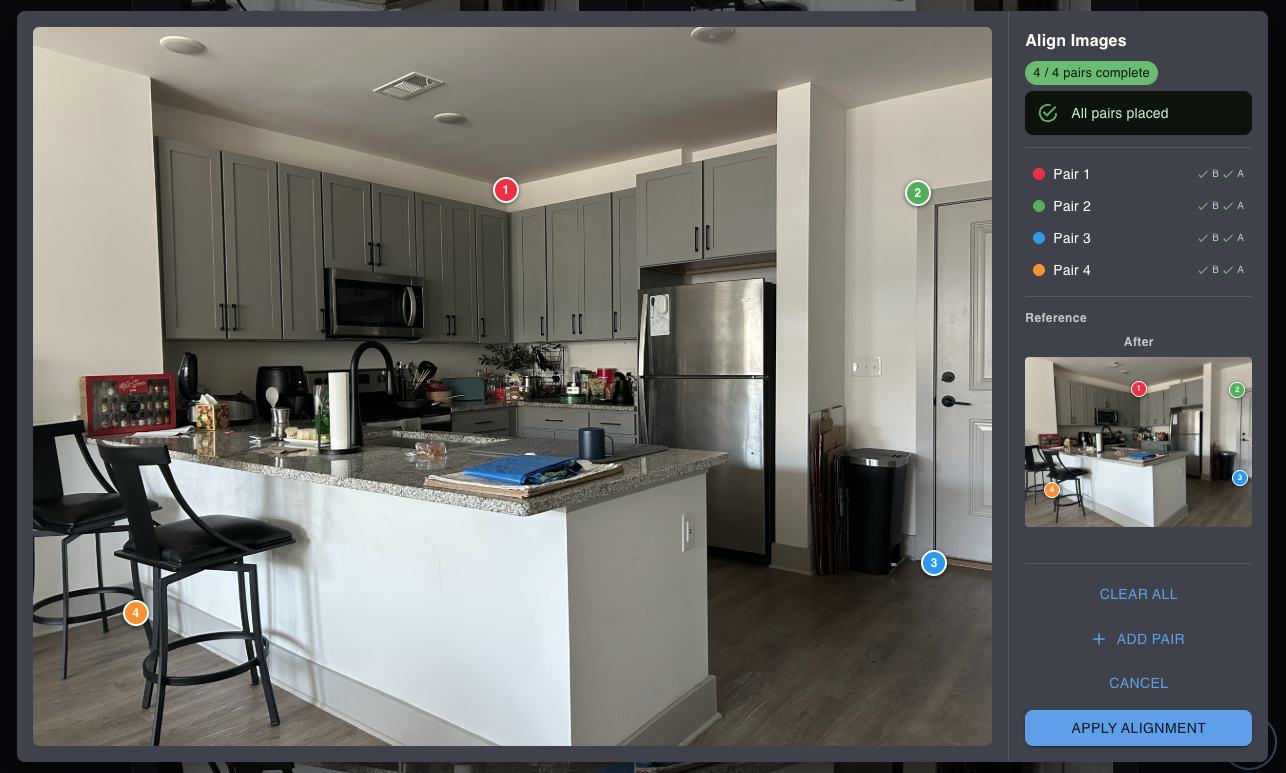
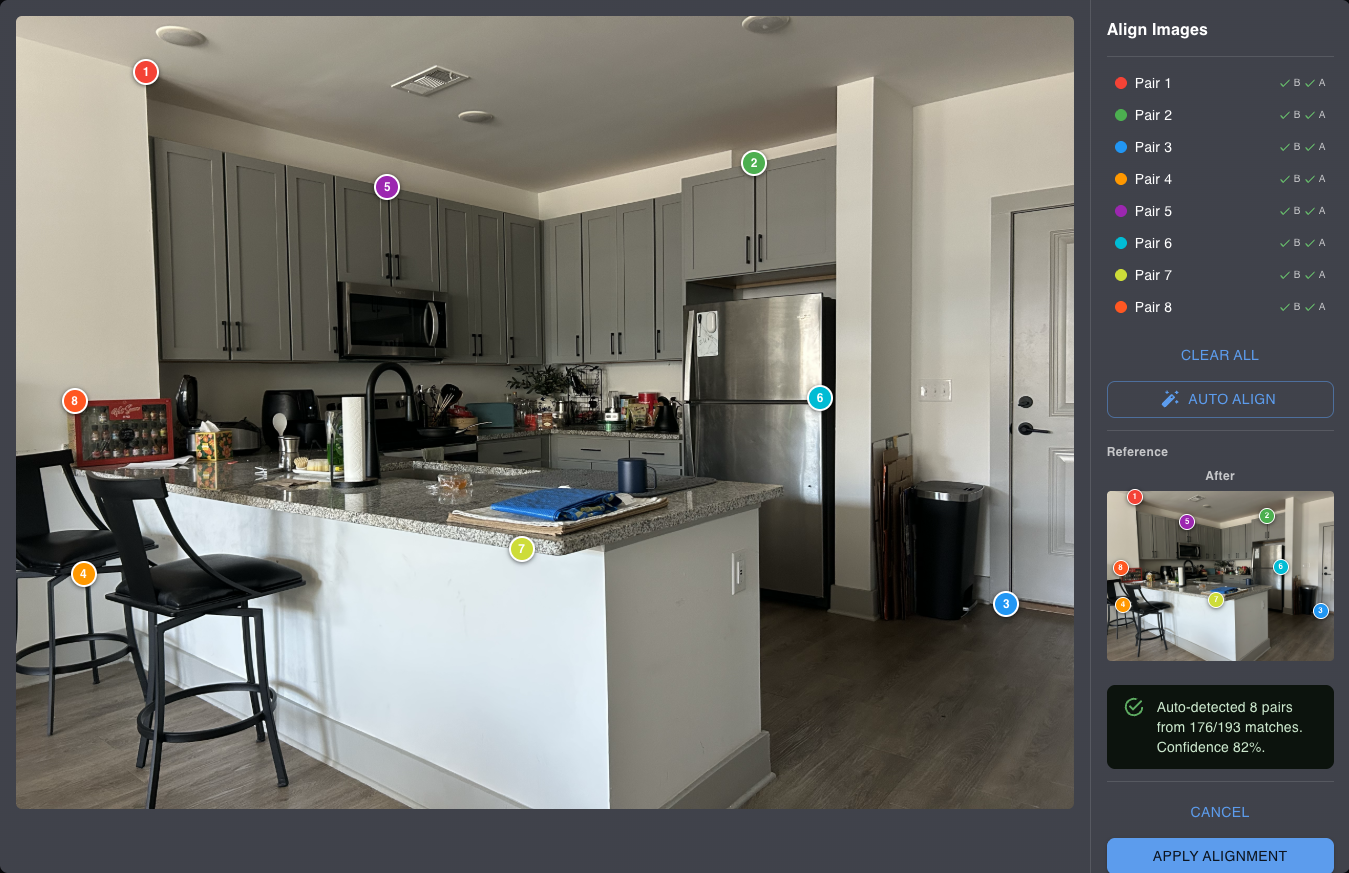
Docs: Rewrite README for both modes with fresh screenshots
Cover Compare two (auto alignment, baselines, tie points, the three tabs,
findings, ignore zones, reports) and Batch anomalies (golden set, strictness,
score strip, inspector, report), add a keyboard shortcut table, update best
practices, and fix the Detection Strength direction. Replace the five
outdated screenshots and add two for batch mode.

diff --git a/README.md b/README.md
@@ -1,10 +1,15 @@
 # TSCM Change Detection Analysis Tool
 
-A web application for Technical Surveillance Countermeasures (TSCM) professionals to detect and analyze changes between two images. Upload a Before and After photo to identify potential modifications or anomalies in a surveillance area.
+A web application for Technical Surveillance Countermeasures (TSCM) professionals to find what changed in a space. It works in two ways:
+
+- **Compare two** — upload a Before and an After photo of the same spot. The tool aligns them, highlights every change, and ranks the findings.
+- **Batch anomalies** — upload tens to hundreds of photos of the same scene. The tool learns what the scene normally looks like and flags the shots that differ, showing where.
+
+Everything runs locally in a single self-contained binary; no images leave your machine.
 
 **Stack:** Go (Gin) backend · React 19 + TypeScript frontend · MUI · Pure-Go image processing (no OpenCV)
 
-![Upload Screen](./img/upload.png)
+![Compare two: Before and After uploaded, Image Comparison tab with the slider](./img/upload.png)
 
 ## Installation
 
@@ -113,89 +118,129 @@ sudo mv tscm-change-detection /usr/local/bin/
 
 The app opens at `http://localhost:8080`.
 
-## Usage
+To run the tests: `go test ./...` and, in `frontend/`, `bun run typecheck && bun test`. See [AGENTS.md](AGENTS.md) for the architecture and the evaluation harnesses used to measure detection quality.
 
-Upload a **Before** and **After** image using the two panels at the top. Previews appear immediately. If the images differ in size, the Before image is automatically resized to match the After image for analysis.
+## Quick start
 
-Both photos are **automatically aligned** on upload: the tool matches features between them, rejects implausible fits, and corrects small camera shifts, so handheld photos compare cleanly. Turn this off with **Auto-align photos** on the Change Detection tab. EXIF rotation from phone photos is applied automatically.
+1. Run the binary and open `http://localhost:8080`.
+2. Pick a mode with the **Compare two / Batch anomalies** switch in the top-right corner.
+3. **Compare two:** drop a Before and an After photo into the two panels, then use the tabs below them.
+   **Batch anomalies:** drop in a folder of photos of one scene and click **Find anomalies**.
 
-For extra confidence, use **Add extra baseline photo** to upload more "Before" shots of the same spot. They are combined (per-pixel median) and the natural variation between them is subtracted, so normally-varying areas stop triggering detections.
+## Compare two
 
-Once both images are uploaded, a **Transform button** (⇄) appears in the bottom-right corner. **Auto Align** in that dialog proposes 8 tie points spread around the frame on stable structure (corners of walls, cabinets, door frames), positioned from the full automatic fit; adjust any of them before applying. Click it to open the alignment dialog, where you can place up to 8 matching point pairs to perspective-warp the Before image onto the After image. This corrects for camera angle differences and reduces false positives. The button turns solid blue when an alignment is active.
+### Uploading and alignment
 
-![Align](./img/align.png)
+Drop or click to upload a **Before** and an **After** image (JPG or PNG). Phone photos are rotated upright automatically from their EXIF data.
 
-## Analysis Tools
+The two photos are **aligned automatically** on upload: the tool matches hundreds of features between them, fits the camera movement, rejects fits that look implausible, and corrects any remaining small shift. Hand-held photos taken from roughly the same spot therefore compare cleanly without any manual work. The result is shown at the top of the Change Detection tab (for example *"aligned with 177 feature matches"*), and it can be switched off there with **Auto-align photos**.
+
+If the photos differ in size, Before is scaled to match After; if their shapes differ, it is scaled without stretching and the padding is ignored during analysis.
+
+**Extra baselines.** Use **Add extra baseline photo** to upload more "Before" shots of the same spot. They are combined into a per-pixel median, and the natural variation between them (a flickering screen, a curtain that moves) is subtracted, so normally-varying areas stop triggering detections.
+
+### Manual alignment and tie points
+
+If automatic alignment isn't enough — for example when the camera moved a lot — click the **Transform button** (⇄, bottom-right) to open the alignment dialog. Place up to 8 matching point pairs, alternating between the Before and After images, then **Apply Alignment** to warp Before onto After. The button turns solid blue while a manual alignment is active; **Reset manual alignment** under the upload panels goes back to automatic alignment.
+
+**Auto Align** fills in all 8 pairs for you. It picks points spread around the frame, one per region, favouring corners of stable structure — wall and ceiling junctions, cabinet and door frames — over furniture and clutter in the middle of the scene. Their After positions come from the full automatic fit, so they are accurate even where features are hard to click by hand. Review them, move any that landed on something that may have moved, and apply.
+
+![Alignment dialog with 8 auto-detected tie points spread around the frame](./img/align.png)
 
 ### Tab 1 — Image Comparison
 
-Visually compare the two images side by side. Switch between three modes:
+Visually compare the two images. Switch between three modes:
 
-- **Slider** — drag a divider left/right to reveal Before or After; the handle can also be dragged vertically to inspect any part of the image
-- **Toggle** — click `Before`, `After`, or `↔` to flip between full-resolution images instantly
-- **Auto** — automatically flickers between Before and After at a speed controlled by the Speed slider (100 ms – 2 s per frame)
+- **Slider** — drag the divider left/right to reveal Before or After; drag the round handle vertically to inspect any part of the image.
+- **Toggle** — click `Before`, `After`, or `↔` to flip between the full images instantly.
+- **Auto** — flickers between Before and After at the speed set by the Speed slider (100 ms – 2 s per frame). Flicker comparison makes small changes jump out.
 
-**Keyboard:** `←` shows Before and `→` shows After in every mode (flipping by hand stops Auto). Use the fullscreen button to flip full-screen (`Space` also flips, `Esc` exits). The slider's grip is focusable: arrow keys nudge it, `Shift` moves in bigger steps, `Home`/`End` jump to the ends. In fullscreen on any result image, `←`/`→` cycle through Before, After and the result.
+Press `←` to show Before and `→` to show After in any mode (flipping by hand stops Auto). The fullscreen button (top-right of the image) shows the comparison full-screen with Before/After labels; there, `Space` also flips and `Esc` exits.
 
-![Image Comparison](./img/compare.png)
+![Image Comparison tab in Slider mode](./img/compare.png)
 
 ### Tab 2 — Change Detection
 
-Displays a single result: the After image with detected changes highlighted in your chosen color. Results update automatically whenever any control is adjusted.
+Shows the After image with detected changes highlighted. Each change is drawn as a numbered box, ranked from strongest to weakest, and listed under the image as **Findings**. Click a finding (in the list or on the image) to see zoomed crops of that area. Results update automatically whenever a control changes.
 
-**Primary controls:**
+![Change Detection with ranked findings and a zoomed crop of finding #1](./img/detection.png)
 
-- **Detection Strength (5–100, default 75)** — threshold sensitivity. Lower values flag subtle changes; higher values reduce false positives.
-- **Noise Reduction (1–15, default 7×7)** — morphological opening kernel. Suppresses isolated noise pixels and compression artifacts before thresholding.
-- **Highlight Color** — five preset swatches: Red, Orange, Yellow, Cyan, Lime.
-- **Highlight Opacity (10–100%, default 55%)** — how strongly the highlight color overlays the After image.
-- **Auto-align photos** — feature-based registration before comparing (default on).
-- **Adaptive threshold** — derive the threshold from each pair's own noise level instead of a fixed number; Detection Strength then only tunes it.
-- **Mark ignore zones** — drag rectangles over areas that legitimately change (screens, windows). They are excluded from detection and from reports.
+**Controls:**
 
-Detected changes are drawn as numbered boxes, ranked by strength, and listed under the image. Select a finding to see a zoomed crop. **Export report** saves a self-contained HTML file (print it to PDF) with the images, ranked findings with crops, the settings used, and SHA-256 hashes of both source photos.
+- **Detection Strength (5–100, default 75)** — higher values flag subtler changes; lower values reduce false positives.
+- **Noise Reduction (1–15, default 7×7)** — removes specks smaller than this before counting changes.
+- **Highlight Color** and **Highlight Opacity** — how changes are drawn.
+- **Auto-align photos** — automatic alignment on/off (see above).
+- **Adaptive threshold** — sets the detection threshold from each pair's own noise level instead of a fixed number; Detection Strength then fine-tunes it. Useful when image quality varies.
+- **Mark ignore zones** — drag rectangles over areas that legitimately change (TV and computer screens, windows, clocks). They are excluded from detection and reports. Remove one with its ×, or all with the chip that appears.
+- **Export report** — saves a self-contained HTML file (open it in a browser and print to PDF) with both images, the highlighted result, every finding with a crop, the settings used, and SHA-256 hashes of both source files for chain-of-custody records.
 
 **Advanced Options & Stats** (collapsed by default):
 
-- **Min Region Size** — discard detected blobs smaller than this many pixels, eliminating tiny spurious detections.
-- **Pre-blur (σ 0–4, default 2.0)** — Gaussian blur applied to both images before differencing. Smooths JPEG block artifacts and sub-pixel camera jitter. Set to 0 to disable.
-- **Fill Gaps (1–15, default 5×5)** — morphological closing kernel applied after noise reduction. Fills interior holes in detected regions so real objects appear as solid blobs.
-- **Shift Tolerance (0–3 px)** — ignores differences explained by a few pixels of residual misalignment. Helps hand-held photos; very small real changes can be hidden at higher values.
-- **Match exposure** — fits a per-channel gain/offset of Before to After so brightness and white-balance drift between shots isn't flagged.
-- **Normalize Lighting** — simple mean-luminance shift, used when Match exposure is off.
-- **Colour-aware** — compares colour (CIELAB) as well as brightness, so colour-only changes are detected.
-- **Stats** — Changed Area %, Changed Pixels, and Distinct Regions for the current result.
-
-![Change Detection](./img/detection.png)
+- **Min Region Size** — discard detections smaller than this many pixels.
+- **Pre-blur (σ 0–4, default 2.0)** — smooths JPEG artifacts and slight camera shake before comparing. 0 disables it.
+- **Fill Gaps (1–15, default 5×5)** — fills holes inside detected regions so objects appear as solid shapes.
+- **Shift Tolerance (0–3 px)** — ignores differences explained by a pixel or two of leftover misalignment. Helps hand-held photos; at higher values very small real changes can be hidden.
+- **Match exposure** (on) — corrects brightness and white-balance differences between the shots so they aren't flagged as changes.
+- **Normalize lighting** — a simpler brightness correction, used when Match exposure is off.
+- **Colour-aware** (on) — compares colour as well as brightness, so an object that changed colour but not brightness is still caught.
+- **Stats** — changed area %, changed pixels, distinct regions, and the threshold actually used.
 
 ### Tab 3 — Alternate Analysis
 
-Runs four visualizations from a single pass of the same diff pipeline (and the same settings as Change Detection), useful for characterizing the nature and severity of detected changes. No configuration required — results appear automatically once both images are uploaded.
+Four views of the same comparison (using the same settings as Change Detection), useful for characterizing what kind of change was found:
 
-- **Image Difference** — raw grayscale difference map showing per-pixel change magnitude.
-- **Channel Subtraction** — per-channel float subtraction (After − Before), normalized to 0–255. Preserves gradient information and color-channel asymmetry; useful for detecting subtle or gradual modifications.
-- **Change Intensity Heatmap** — JET colormap overlay (blue = low change, red = high change). Useful for assessing the magnitude and spatial distribution of changes.
-- **Canny Edge Detection** — edge detection run on the difference map, highlighting structural boundaries of changed regions.
+- **Image Difference** — grayscale map of how much each pixel changed.
+- **Channel Subtraction** — After − Before per colour channel; reveals colour shifts and subtle, gradual modifications.
+- **Change Intensity Heatmap** — blue = little change, red = strong change; stretched so faint changes stay visible.
+- **Canny Edge Detection** — outlines of the changed structures.
 
-![Alternate Analysis](./img/alternate.png)
+Open any view fullscreen and use `←`/`→` to flip through all four.
 
-## Batch Anomalies (many photos of one scene)
+![Alternate Analysis: difference, subtraction, heatmap and edge views](./img/alternate.png)
 
-Switch to **Batch anomalies** in the top-right corner. Drop in tens to hundreds of photos of the **same scene** (or choose a folder), then click **Find anomalies**. The tool aligns every shot to a typical reference shot, learns what the scene normally looks like from the shots that agree with each other (the "golden set"), and flags the shots that differ, with a heat map and boxes showing where.
+## Batch anomalies
 
-- **Strictness** — lower flags more images; results re-classify instantly without re-running.
-- **Score strip** — every image as a dot, most unusual first; click one to inspect.
-- **Inspector** — the shot aligned to the scene, with heat overlay and numbered regions. `←`/`→` step between images; in fullscreen, `←`/`→` flip between the shot and the golden reference.
-- **Export report** — a self-contained HTML report with the golden reference and every anomalous shot annotated.
-- Shots that can't be aligned (a different position or a different scene) are marked **unaligned**; being unalignable is itself unusual.
+Use this mode when you have **many photos of the same scene** — repeated sweeps of a room, a series from a fixed camera, a set of scans — and want to find the ones that are different, without choosing a single "before".
 
-Detection covers both compact objects and thin structures such as cables or wires. Blown-out highlights (lamps, glare) are ignored. Up to 1000 images per batch.
+1. Switch to **Batch anomalies** (top-right).
+2. Drop in the photos, or use **Choose images** / **Choose folder**. Tens to hundreds work well (up to 1000); at least 10 is recommended.
+3. Click **Find anomalies**. A progress bar shows the images being aligned; 50–100 images take a few seconds.
+
+![Batch results: summary, strictness slider, score strip and ranked image cards](./img/batch.png)
+
+**Reading the results**
+
+- **Summary** — images analysed, how many are anomalous at the current strictness, how many formed the *golden set* (the shots that agree with each other and define "normal"), and how many could not be aligned.
+- **Strictness** — lower values flag more images. Moving the slider re-classifies instantly without re-running the analysis.
+- **Score strip** — every image as a dot, most unusual first. The dashed line is the threshold; red dots are above it. Click any dot to inspect that image.
+- **Image cards** — sorted by score. Anomalous images have a red border and a heat overlay. **unaligned** means the shot couldn't be matched to the scene (taken from somewhere else, or of a different scene), which is unusual in itself.
+- **Anomalies only** hides the normal shots.
+
+**Inspecting an image.** Click a card or dot to open the inspector: the shot aligned to the scene, with a heat overlay (toggle **Heat**) and numbered boxes around each anomalous area. Use `←`/`→` or the arrow buttons to step through images. Open it fullscreen to flip between the shot and the **golden reference** — the typical appearance of the scene, built from the golden set.
+
+![Inspector showing one anomaly boxed and heat-mapped on an aligned image](./img/batch-inspector.png)
+
+**Export report** saves a self-contained HTML report with the golden reference and each anomalous image annotated with its boxes and heat, plus the method and settings.
+
+**How it works, briefly.** Every photo is aligned to the most typical shot and exposure-matched. The tool then computes, for every pixel, the median and normal spread across the shots that agree with each other, repeatedly dropping shots that don't. Each image is scored by its strongest area of deviation. It looks for both compact objects and thin structures such as cables and wires, and ignores blown-out highlights (lamps, glare) that vary from shot to shot. An image is flagged only if it clearly stands out from the golden set *and* the tool can point to where.
+
+## Keyboard shortcuts
+
+| Where | Keys | Action |
+|---|---|---|
+| Image Comparison | `←` / `→` | Show Before / After |
+| Comparison slider (focused) | `←` `→` `↑` `↓`, `Shift`, `Home`/`End` | Move the divider and handle; bigger steps; jump to ends |
+| Any fullscreen view | `←` / `→`, `Space`, `Esc` | Flip between images, flip, exit |
+| Change Detection fullscreen | `←` / `→` | Cycle Before, After and the result |
+| Batch inspector | `←` / `→` | Previous / next image |
 
 ## Best Practices
 
-- Use consistent lighting, angle, and most importantly **lens position** between shots.
-- If photos were taken from slightly different positions or angles, use the **alignment tool** (⇄ FAB) to mark 4–8 matching landmarks before running analysis — this significantly reduces geometric false positives.
-- Enable **Normalize Lighting** when shots were taken under different ambient conditions.
-- Increase **Pre-blur** if JPEG compression artifacts or minor camera shake are producing false positives along high-contrast edges.
-- Use **Alternate Analysis** to cross-reference: the heatmap shows severity, the subtraction view reveals color-channel changes, and the edge map highlights structural boundaries.
-- If getting too many false positives, decrease Detection Strength and/or increase Noise Reduction.
+- Shoot from the **same position and height** each time; consistent lens position matters more than anything else. Automatic alignment corrects small differences, but it can't undo parallax (near objects shifting against far ones) from a large change in position.
+- Keep lighting consistent where you can. Exposure and white-balance differences are corrected automatically, but moving shadows and lamps turning on or off are real visual changes.
+- Take **several Before shots** of important areas and add them as extra baselines, or use Batch mode — the tool then learns what normally varies.
+- Mark **ignore zones** over screens, windows and anything else that is expected to change.
+- If there are too many false positives, lower Detection Strength, raise Noise Reduction or Pre-blur, or add 1 px of Shift Tolerance. If real changes are missed, raise Detection Strength or turn on Adaptive threshold.
+- When automatic alignment reports that it was rejected, use the alignment dialog: Auto Align, check the points, and apply.
+- Use **Alternate Analysis** to cross-check: the heatmap shows severity, channel subtraction reveals colour changes, and the edge map shows structural outlines.
